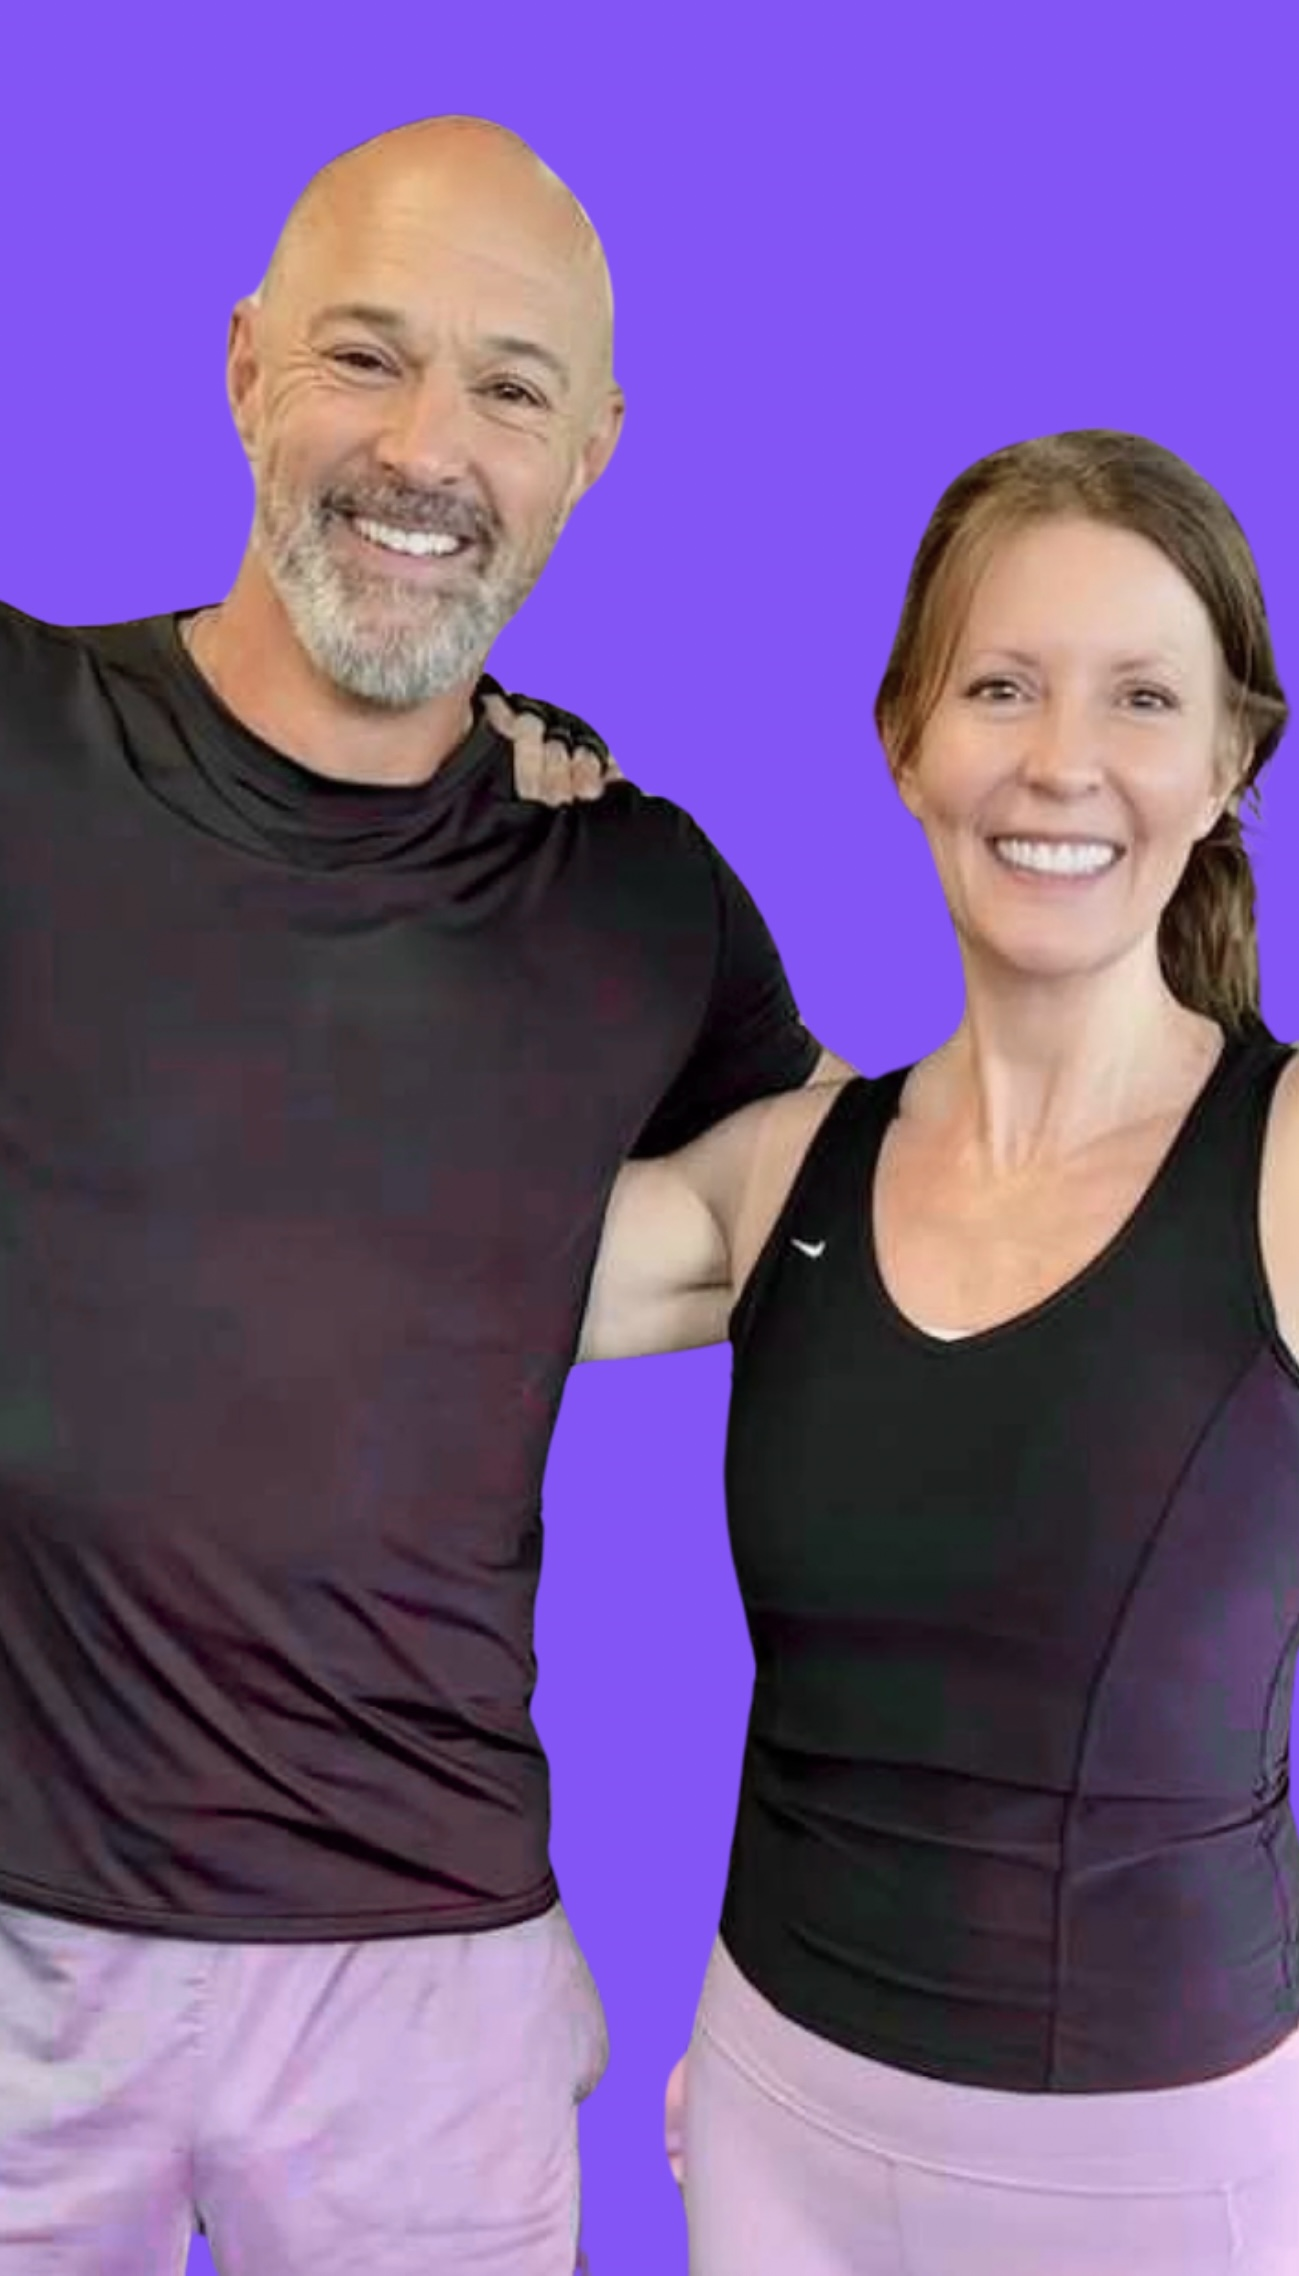
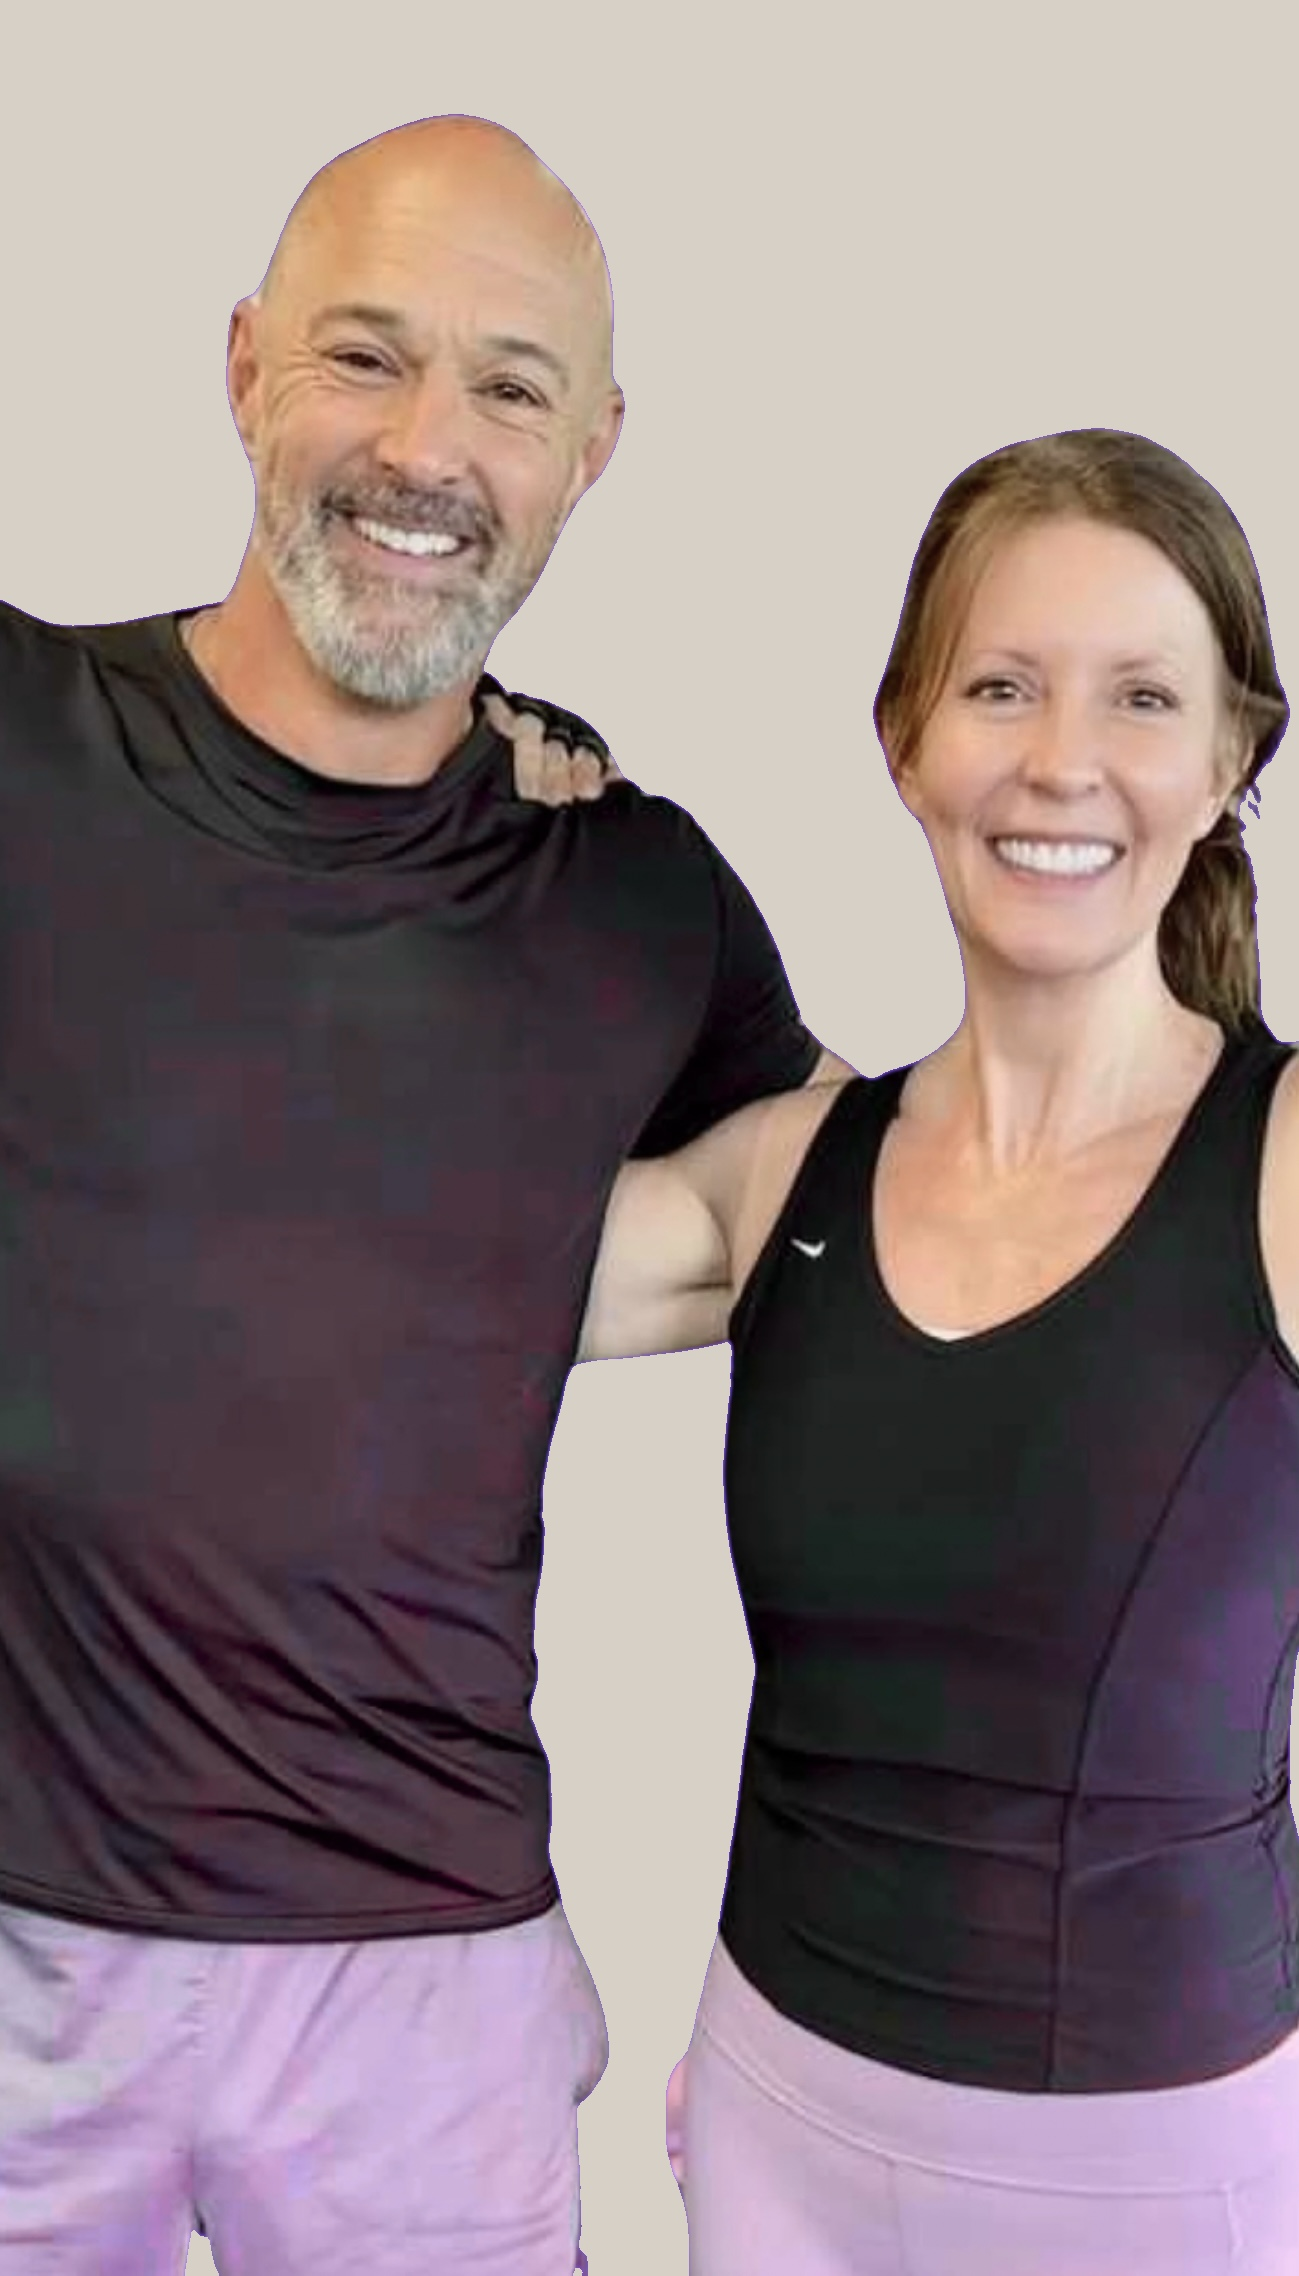
Homepage: add Welcome to GetAgeFit, reposition recognition section, recolor photo background
Theo's round 4 requests, implemented on this dev branch for preview only
(not deployed to production):

- Laura & James photo: recolored the flat purple cutout background to the
  same warm studio grey sampled from the live trainer headshot photos
  (staff-headshot-a/b/c.jpg), so it matches rather than clashes
- Added a "Welcome to GetAgeFit" moment (the wordmark logo) directly below
  the hero and directly above the Laura & James photo
- Moved the "Maybe You're Noticing..." heading from above that photo to
  below it, so it now introduces the recognition/pain-point list
  immediately following, per the requested new section order

Claude-Session: https://claude.ai/code/session_01P25oKLGQjzm6zz9eVSxxCk

diff --git a/src/app/page.tsx b/src/app/page.tsx
@@ -1,4 +1,5 @@
 import type { Metadata } from "next";
+import Image from "next/image";
 import { Section } from "@/components/ui/Section";
 import { Button } from "@/components/ui/Button";
 import { Badge } from "@/components/ui/Badge";
@@ -101,26 +102,43 @@ export default function HomePage() {
         </div>
       </section>
 
-      {/* 2. MAYBE YOU'RE NOTICING A FEW THINGS… */}
+      {/* 2. WELCOME TO GETAGEFIT / MAYBE YOU'RE NOTICING A FEW THINGS…
+          Round 4 (Theo, direct request): a "Welcome to GetAgeFit" moment
+          (the wordmark logo, standing in for the heading) now opens this
+          section, directly below the purple hero and directly above the
+          Laura & James photo. The "Maybe You're Noticing…" heading, which
+          used to sit above that photo, moves below it instead, so it now
+          introduces the recognition/pain-point list (RecognitionList)
+          immediately following. */}
       <Section tone="white">
-        <div className="mx-auto max-w-2xl text-center">
-          <h2 className="mb-10 text-3xl md:text-4xl">
-            Maybe You&rsquo;re Noticing&hellip;
-          </h2>
+        <div className="mx-auto mb-12 max-w-2xl text-center">
+          <p className="mb-3 text-sm font-semibold uppercase tracking-[0.18em] text-ink-500">
+            Welcome to
+          </p>
+          <Image
+            src="/images/brand/getagefit-logo.png"
+            alt="Get Age Fit"
+            width={630}
+            height={81}
+            className="mx-auto h-10 w-auto md:h-12"
+          />
         </div>
         {/* Management-directed (post-launch batch 1, EDIT 2, recropped in
-            round 2 EDIT 3): the photo previously used here is replaced with
-            the original Laura & James photo freed up by EDIT 1, shown with
-            natural colors (no tint/overlay). The source photo itself puts
-            both people well to the right of a lot of empty purple
-            background, so a plain centered crop pushed Laura's face to (or
-            past) the frame edge on desktop and cut off both of their faces
-            at the top on mobile -- object-position is tuned per breakpoint
-            (mobile crops top-anchored since both faces sit in the top ~40%
-            of that tall source frame; desktop crops to a narrower band
-            shifted right, toward where the two of them actually stand) so
-            both faces land centered in the visible frame with real margin
-            around them, not the plain "center" default. */}
+            round 2 EDIT 3; background recolored in round 4 from a flat
+            purple cutout to the same warm studio grey as the trainer
+            headshots, per Theo's direct request): the photo previously
+            used here is replaced with the original Laura & James photo
+            freed up by EDIT 1, shown with natural colors (no tint/overlay).
+            The source photo itself puts both people well to the right of a
+            lot of empty background, so a plain centered crop pushed
+            Laura's face to (or past) the frame edge on desktop and cut off
+            both of their faces at the top on mobile -- object-position is
+            tuned per breakpoint (mobile crops top-anchored since both faces
+            sit in the top ~40% of that tall source frame; desktop crops to
+            a narrower band shifted right, toward where the two of them
+            actually stand) so both faces land centered in the visible
+            frame with real margin around them, not the plain "center"
+            default. */}
         <ResponsiveImage
           src="/images/training/hero-strength-duo-mobile.jpg"
           alt="Laura and James, GetAgeFit clients celebrating their strength gains"
@@ -137,6 +155,11 @@ export default function HomePage() {
           imageClassName="object-[85%_center]"
           className="mx-auto mb-12 hidden max-w-2xl shadow-soft md:block"
         />
+        <div className="mx-auto max-w-2xl text-center">
+          <h2 className="mb-10 text-3xl md:text-4xl">
+            Maybe You&rsquo;re Noticing&hellip;
+          </h2>
+        </div>
         <RecognitionList />
       </Section>
 
